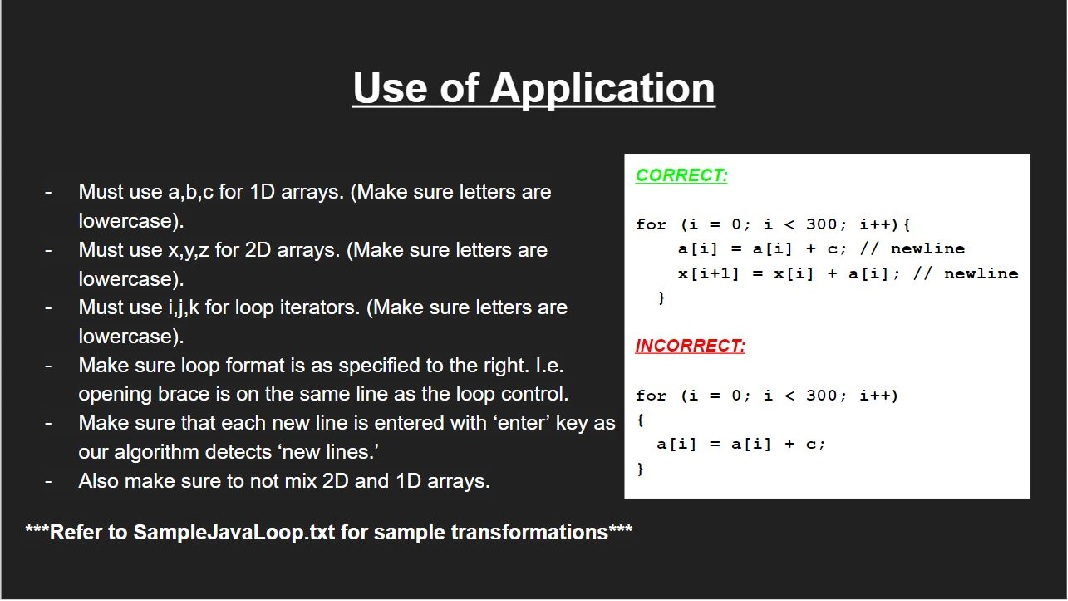
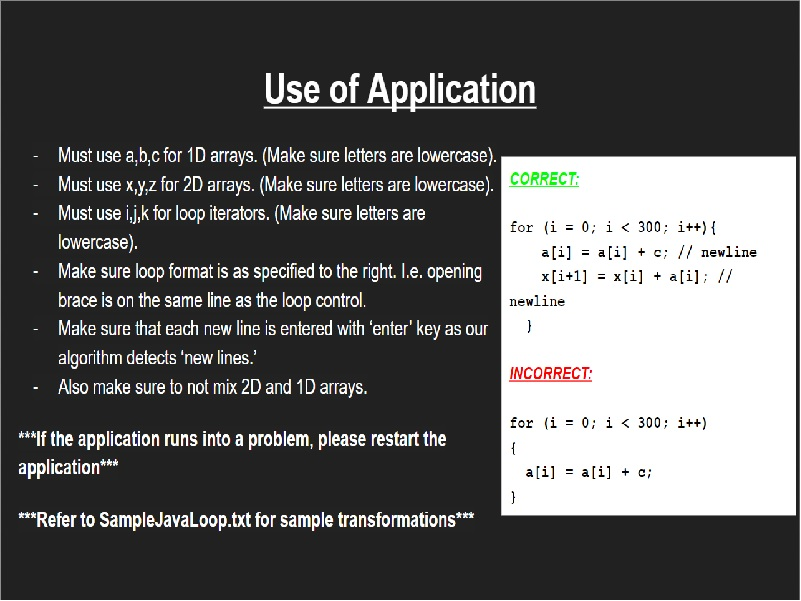
Changed Use

diff --git a/Project/LoopTransformations/src/main/GUI.java b/Project/LoopTransformations/src/main/GUI.java
@@ -83,7 +83,7 @@ public class GUI extends JPanel{
 		ImageIcon InterchangeIcon = new ImageIcon(this.getClass().getResource("/images/Use.jpg"));
 		interchangeHelp.setTitle("Interchage Help");
 		interchangeHelp.setResizable(true);
-		interchangeHelp.setBounds(0,0, 1024, 612);
+		interchangeHelp.setBounds(0,0, 800, 600);
 		interchangeHelp.setLocationRelativeTo(null);
 		interchangeHelp.setVisible( true ); 
 		interchangeHelp.setAlwaysOnTop(true);
